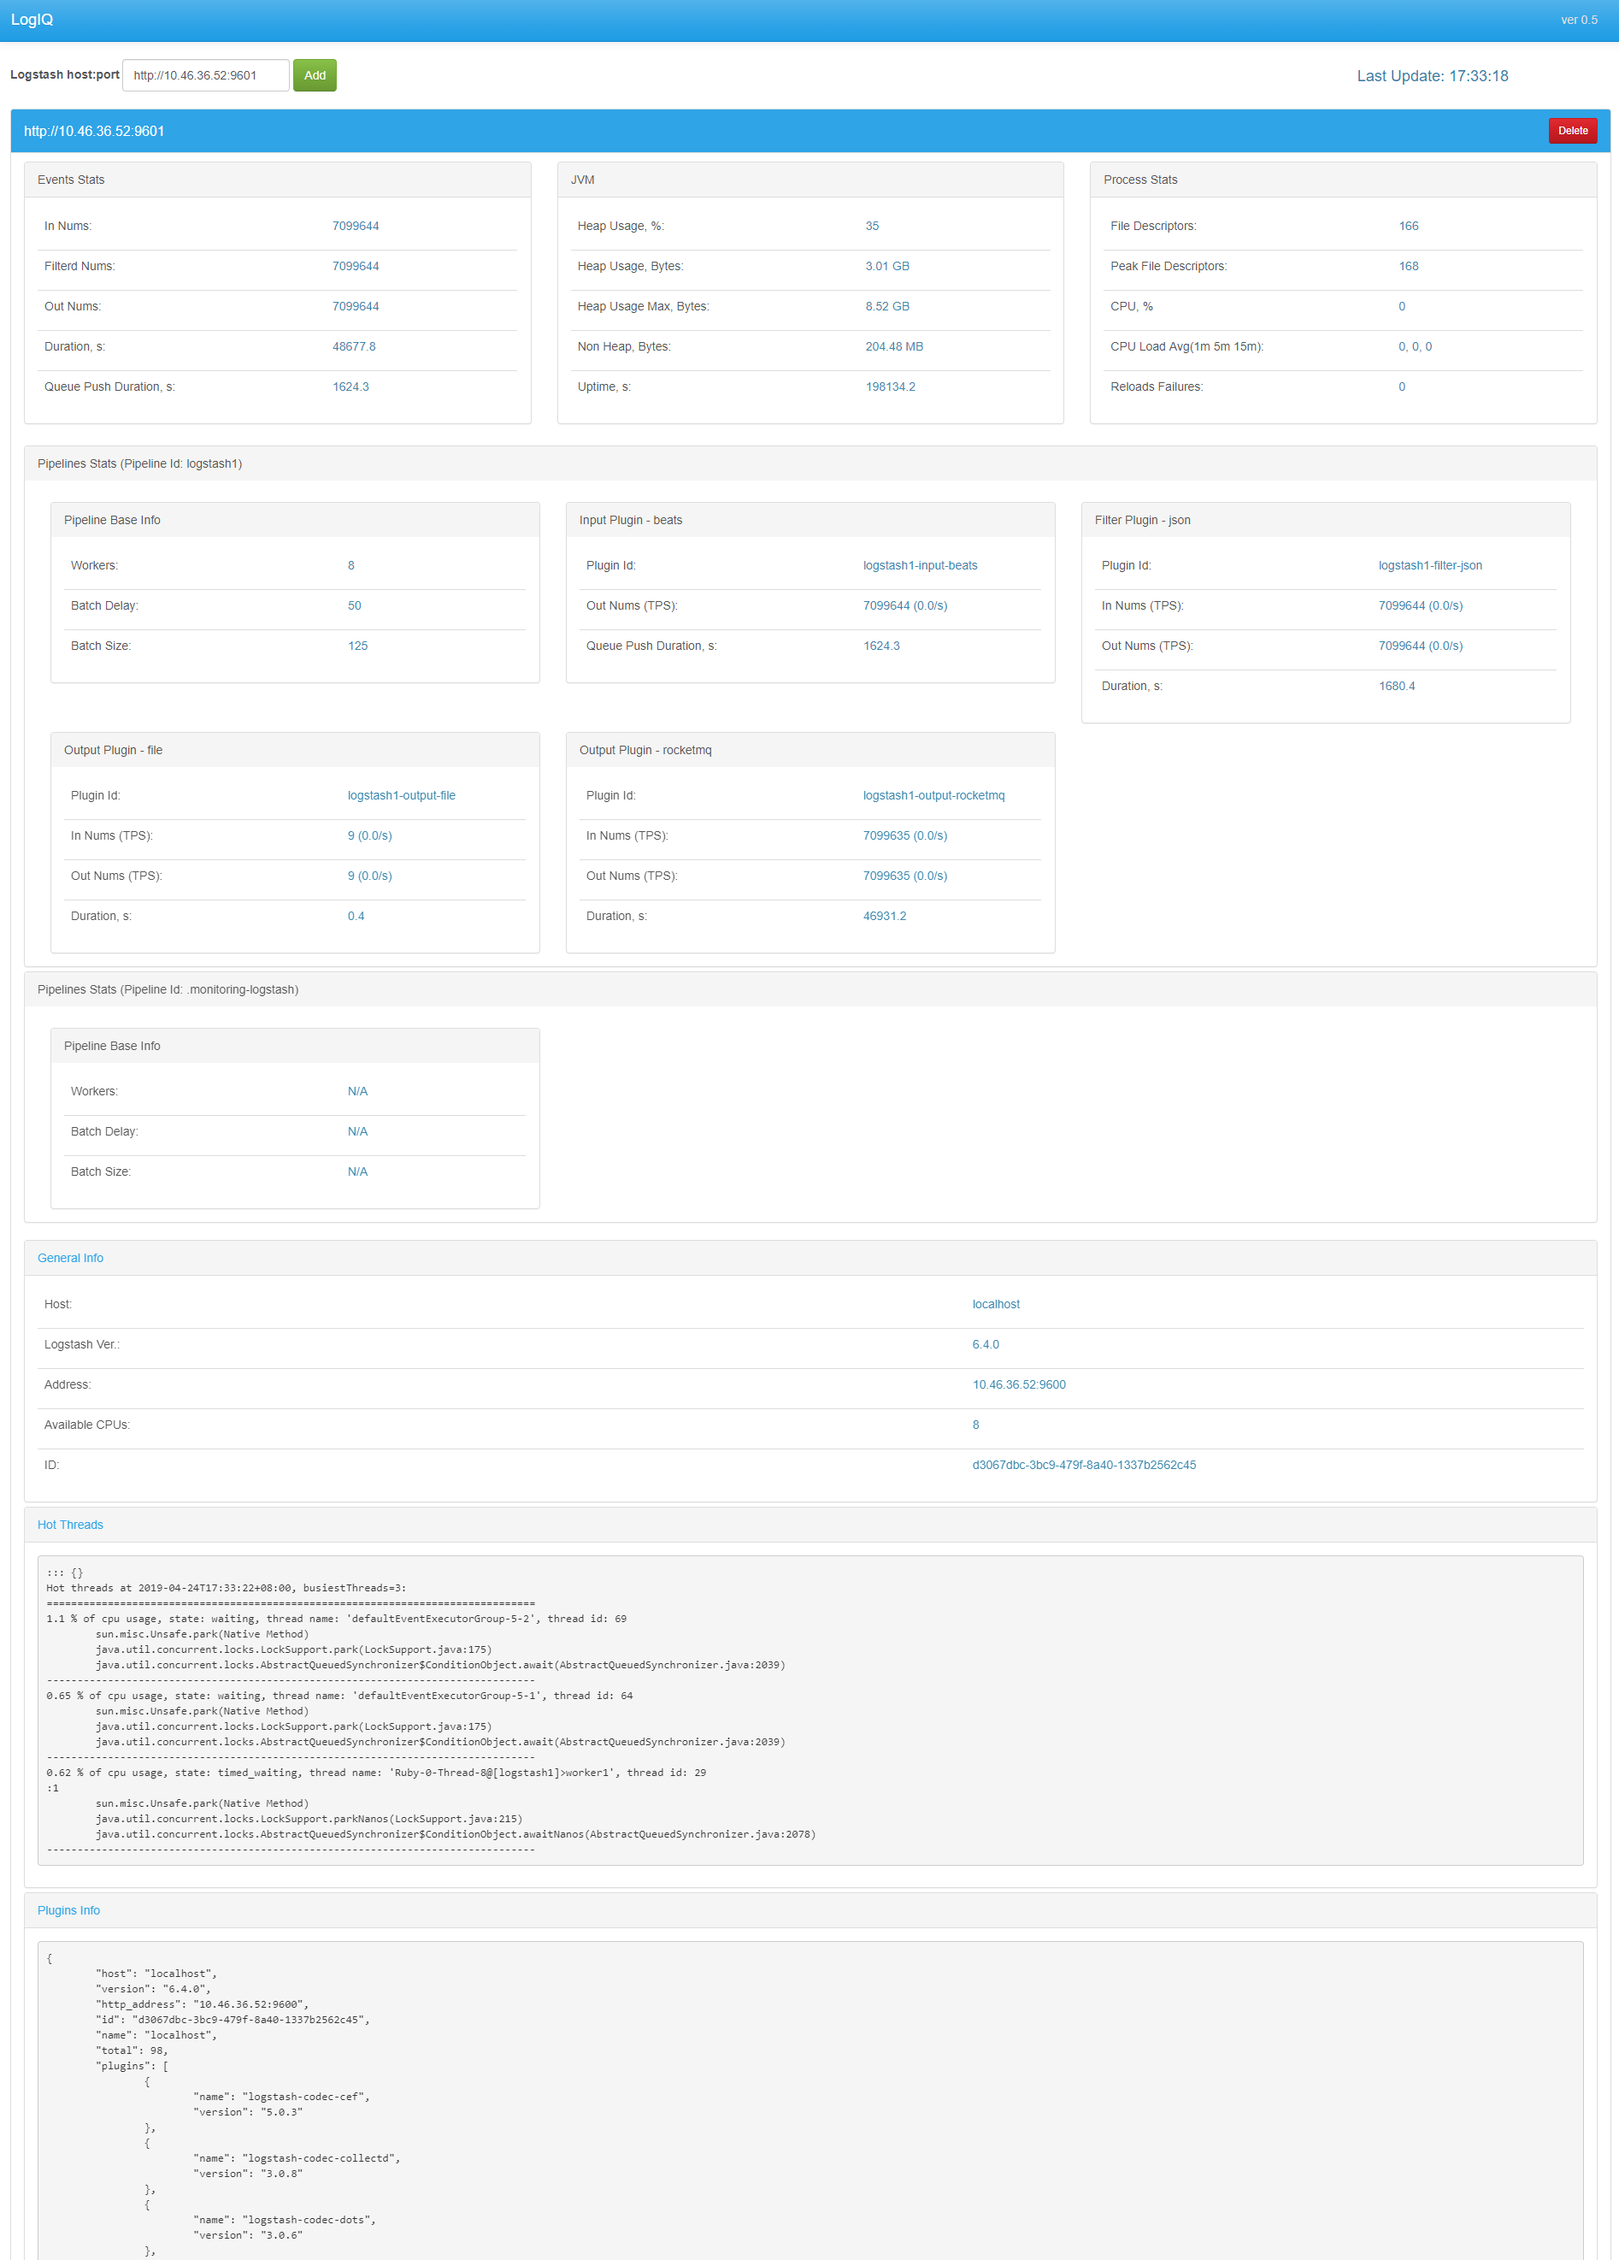
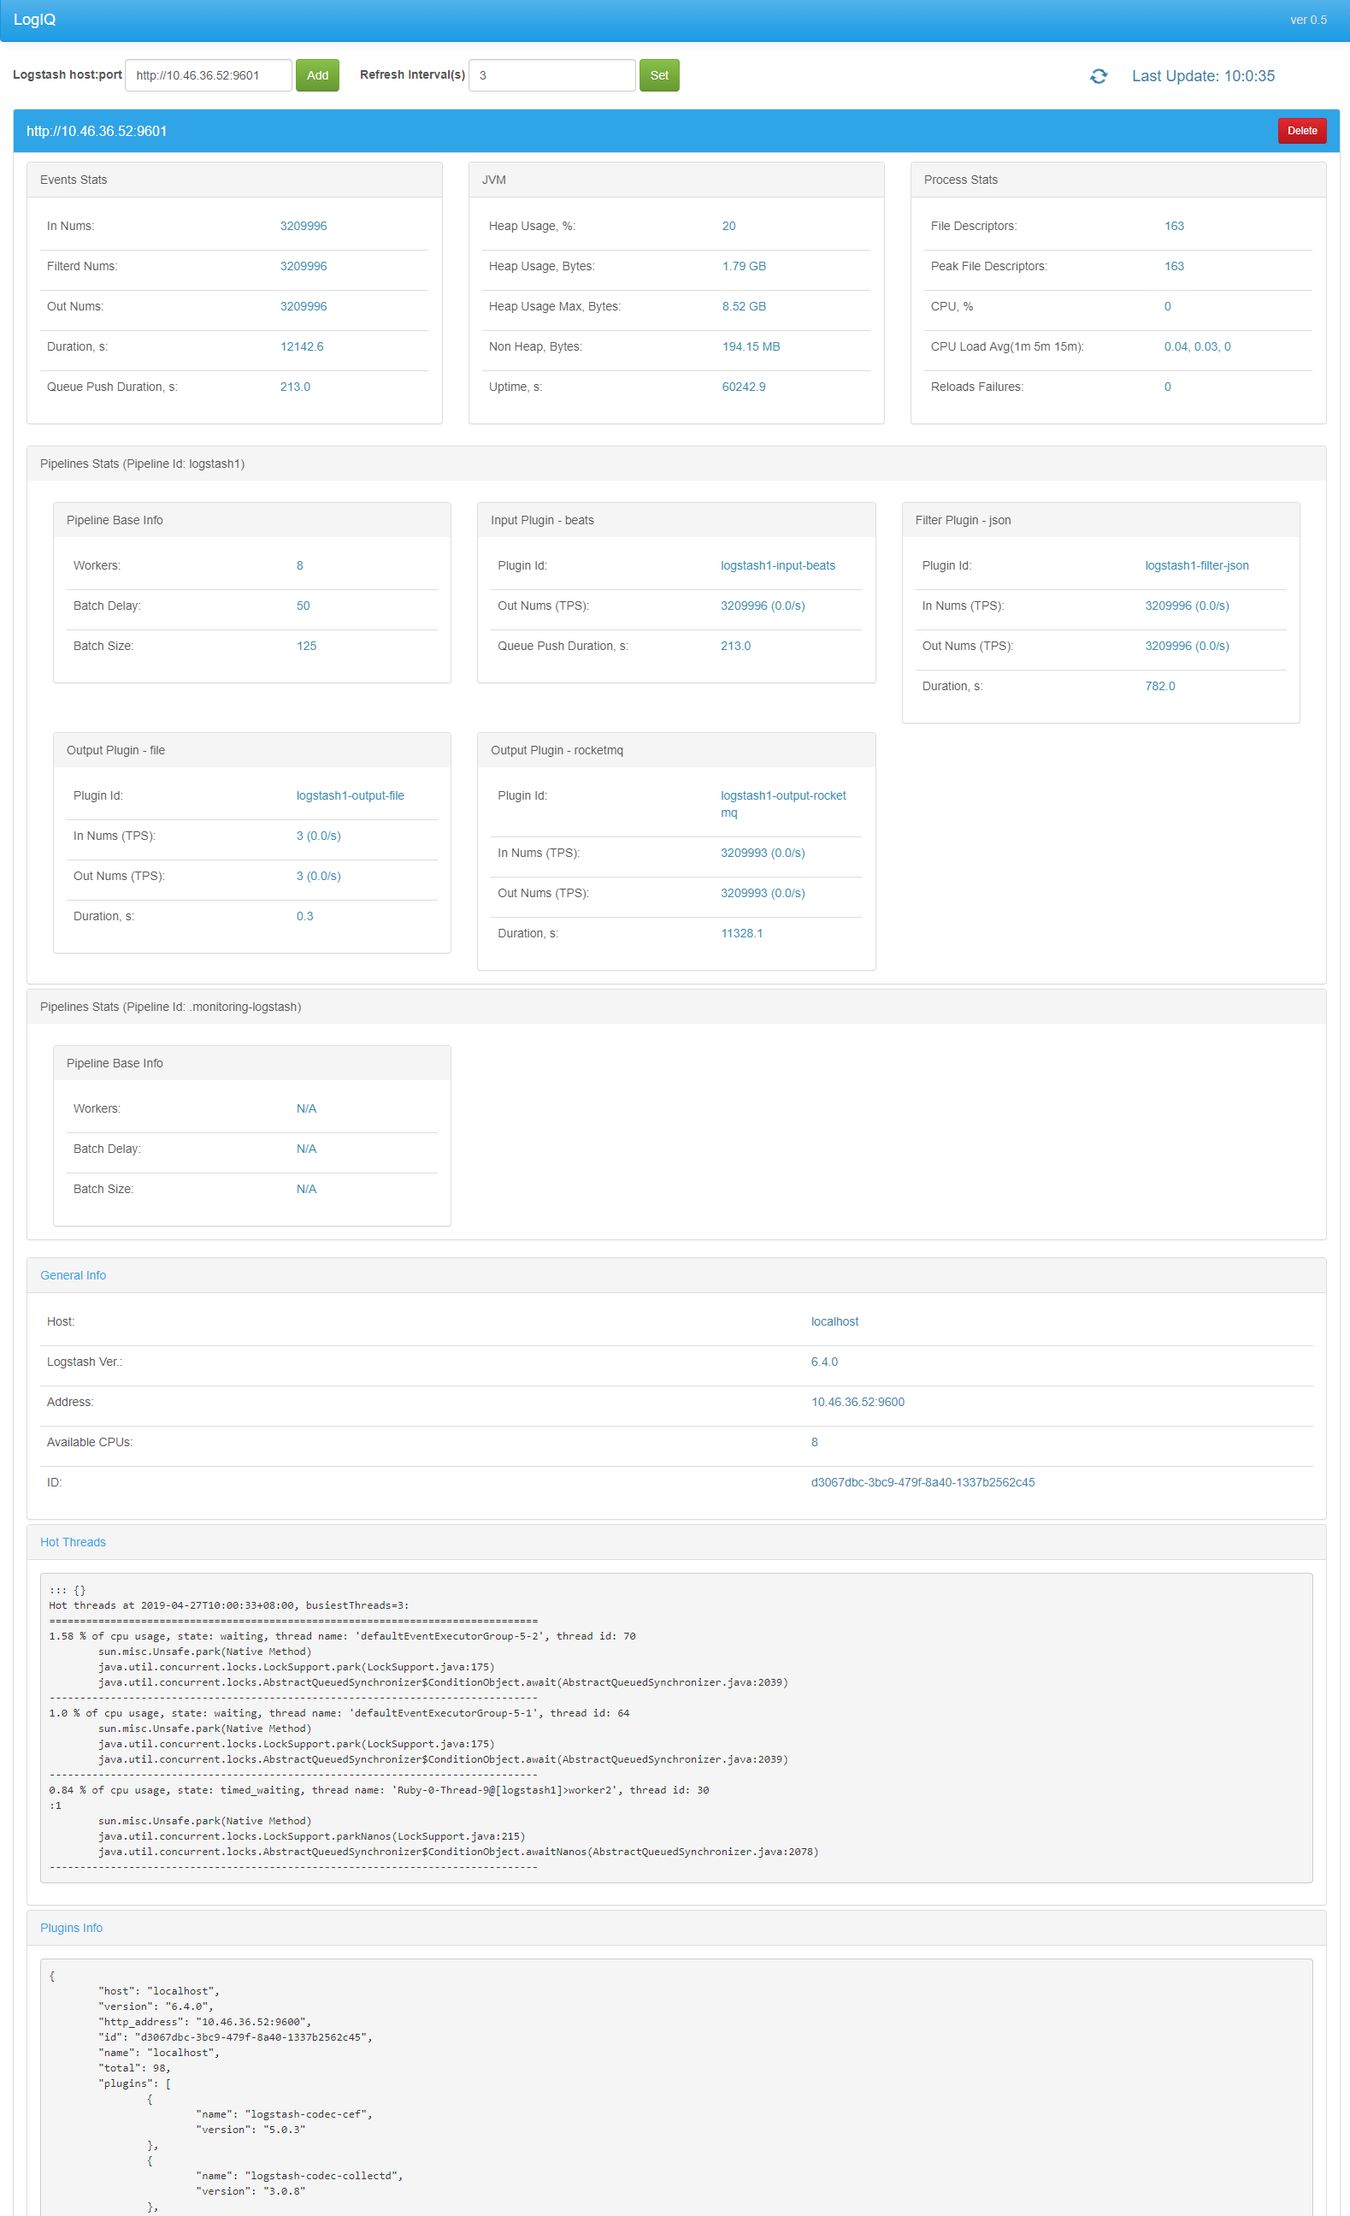
now can change auto refresh interval

diff --git a/logiq.html b/logiq.html
@@ -10,16 +10,16 @@
         .panel-default>.panel-heading {
             color: #555555;
         }
-        
+
         .panel-title {
             padding-top: 6px;
         }
-        
+
         .row-fluid {
             padding-top: 10px;
             color: #555555;
         }
-        
+
         .row {
             padding-left: 15px;
             padding-right: 15px;
@@ -28,7 +28,7 @@
         .plugin-stats-div {
             padding-top: 10px;
         }
-        
+
         .table>tbody>tr:first-child>td {
             border: none;
         }
@@ -41,17 +41,17 @@
             width: 40%;
             word-break: break-all;
         }
-        
+
         .table {
             margin-bottom: 0;
         }
-        
+
         .glyphicon-refresh-animate {
             float: right;
             -animation: spin 1s infinite linear;
             -webkit-animation: spin2 1s infinite linear;
         }
-        
+
         @-webkit-keyframes spin2 {
             from {
                 -webkit-transform: rotate(0deg);
@@ -60,7 +60,7 @@
                 -webkit-transform: rotate(360deg);
             }
         }
-        
+
         @keyframes spin {
             from {
                 transform: scale(1) rotate(0deg);
@@ -92,6 +92,13 @@
                 <input id="host_port" class="form-control" name="hostname" value="http://hostname:9601">
             </div>
             <button id="bt_connect" type='button' class="btn btn-success">Add</button>
+
+            <div class="form-group" style="margin-left: 20px;">
+                <label for="refresh_interval">Refresh Interval(s) </label>
+                <input id="refresh_interval" class="form-control" value="3">
+            </div>
+            <button id="bt_set_refresh" type='button' class="btn btn-success">Set</button>
+
             <!--<button id="bt_refresh" type='button' class="btn btn-primary pull-right">Refresh</button>-->
             <div class="col-md-2 pull-right">
                 <h4 id="upd_date">Last Update: N/A</h4>
@@ -436,7 +443,7 @@
             $(".glyphicon").show().fadeIn('slow').delay(500).fadeOut('slow');
         };
 
-        setInterval(function() {
+        var interval = setInterval(function() {
             update_all();
         }, refresh_interval);
 
@@ -478,7 +485,7 @@
                 for (var pipeline in pipelines_json) {
                     var pipeline_id = pipeline;
                     var plugins_json = pipelines_json[pipeline_id]['plugins'];
-                    
+
                     var inputs = plugins_json['inputs'];
                     var filters = plugins_json['filters'];
                     var outputs = plugins_json['outputs'];
@@ -578,7 +585,7 @@
         //just init plugins_stats, not calculate
         function init_plugins_stats(panel) {
             var host_port = panel.find('h2').text();
-            
+
             $.get(host_port + "/_node/stats/pipelines", function(data) {
                 var pipelines_stats_container = panel.find("#pipelines_stats_container");
                 var pipelines_json = data['pipelines'];
@@ -649,6 +656,16 @@
                 }
             });
         };
+
+        // change refresh_interval and reset interval
+        $("#bt_set_refresh").on('click', function() {
+        	var new_interval = $('#refresh_interval').val();
+        	refresh_interval = new_interval * 1000;
+        	clearInterval(interval);
+        	interval = setInterval(function() {
+	            update_all();
+	        }, refresh_interval);
+        });
 
         $("#bt_connect").on('click', function() {
             var host_port = $('#host_port').val();
